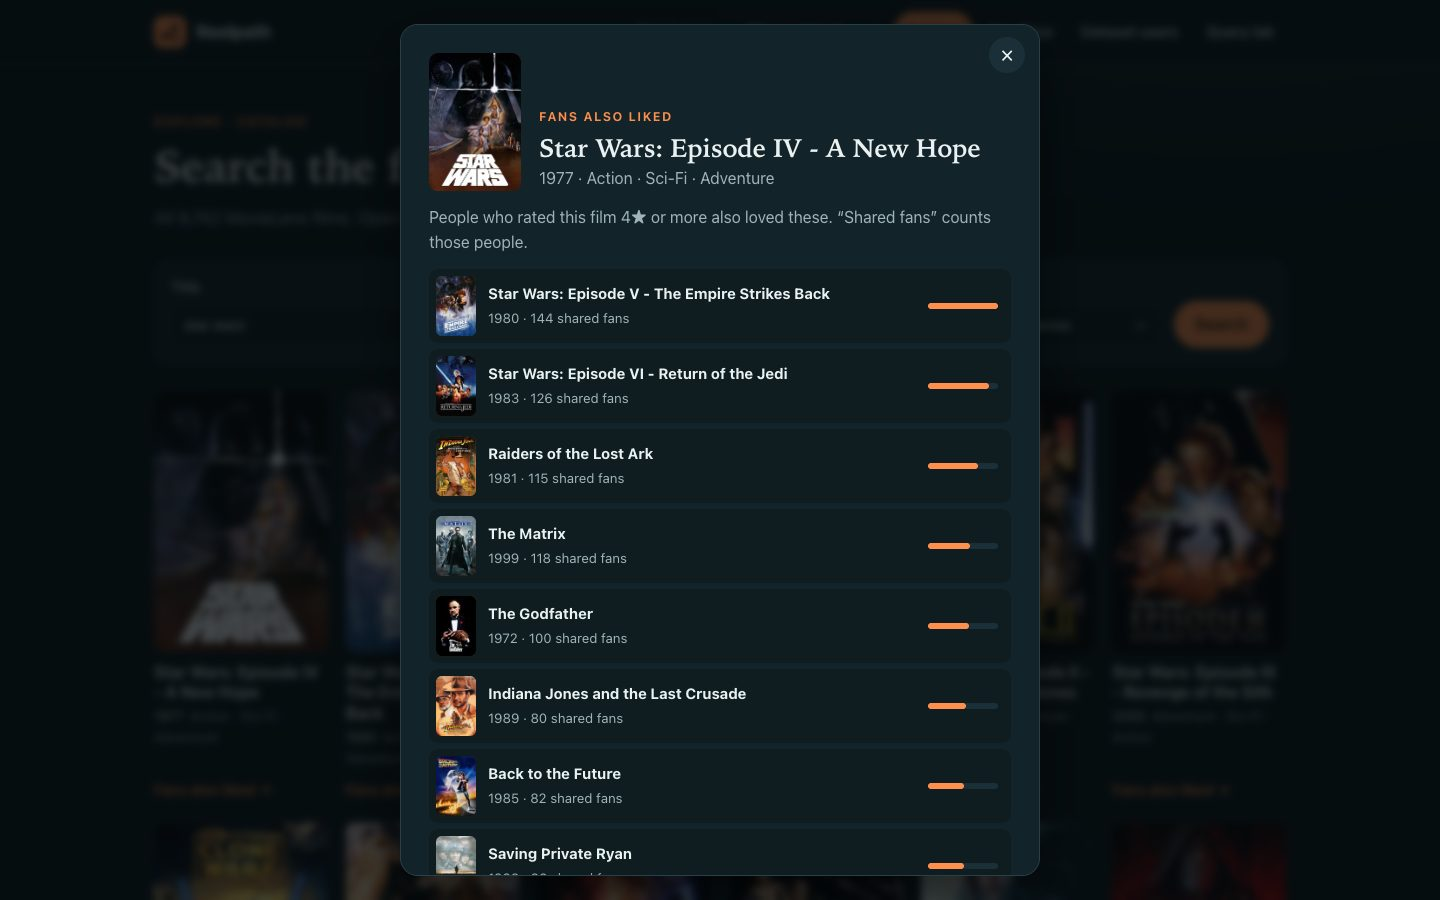
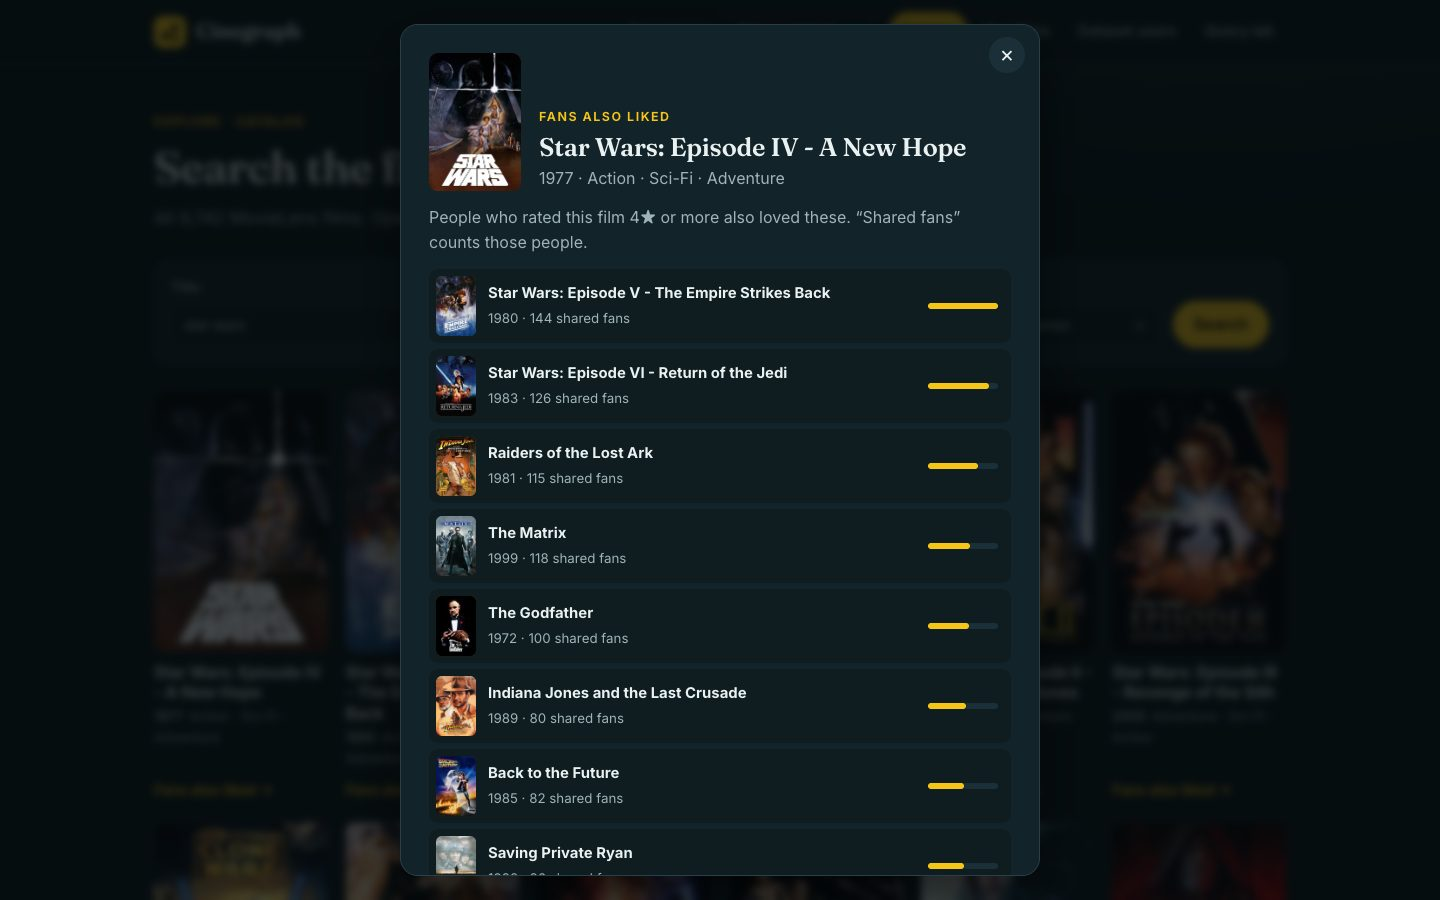
docs: explain the Cinegraph name, colours and typefaces; refresh screenshots

diff --git a/README.md b/README.md
@@ -1,6 +1,6 @@
 <div align="center">
 
-# 🎬 Reelpath
+# 🎬 Cinegraph
 
 ### Pick films you love. See what to watch next, and exactly why.
 
@@ -17,7 +17,7 @@ with **Graph Data Science** algorithms, a guarded **natural-language → Cypher*
 **Can Oktay** · Student no. B00818187 · AIDAMS 3A, Graph Databases
 Project 4 · *Movie Recommender in Production* (Level 2)
 
-<img src="docs/screenshots/ui-home.jpg" alt="Reelpath home page" width="900">
+<img src="docs/screenshots/ui-home.jpg" alt="Cinegraph home page" width="900">
 
 </div>
 
@@ -127,17 +127,19 @@ The deterministic controller runs the ten rounds itself; the local model is only
 
 ## Design choices
 
-**Name.** *Reelpath* joins a film reel and a path: every recommendation is literally a path through the graph, from a film you picked, through the people who loved it, to the next film. (The repository keeps its original name, `moviegraph`.)
+**Name.** *Cinegraph* joins *cinema* and *graph*: the films and the Neo4j graph that connects them. Every recommendation is a path through that graph, from a film you picked, through the people who loved it, to the next film. (The repository keeps its original name, `moviegraph`.)
 
-**Two colours, teal and orange.** The interface uses one hue for surfaces and its complement for actions, and lets the posters carry every other colour.
+**Two colours, teal and IMDb yellow.** The interface uses one dark hue for surfaces and one bright accent for actions, and lets the posters carry every other colour.
 
 | Role | Colour | Why |
 |---|---|---|
-| Surfaces | Teal-tinted near-black `#0b1619` to `#1a2f37` | Dark, low-saturation surfaces recede, so colourful posters stand out. A tinted dark grey instead of pure black reduces halation of light text, which mostly affects readers with astigmatism. |
-| Actions and highlights | Orange `#ff8f4d` | Orange is the complement of teal, the largest hue contrast for buttons and links. It is the same *orange and teal* pairing used in film colour grading, where warm skin tones are separated from cool backgrounds. |
+| Surfaces | Teal-tinted near-black `#0b1619` to `#1a2f37` | Dark, low-saturation surfaces recede, so colourful posters stand out. A tinted dark grey instead of pure black reduces halation of light text, which mostly affects readers with astigmatism. Cool teal backgrounds are also the backdrop of the *orange and teal* look in film colour grading. |
+| Actions and highlights | IMDb yellow `#f5c518` | The colour people already associate with film ratings, so buttons, ratings and links read as "film" at a glance. It is warm against the cool teal surfaces. |
 | Text | Off-white `#e9f1f1`, muted `#9fb4b7` | Softer than pure white on dark backgrounds. |
 
-Measured WCAG contrast on the page background: body text 16:1, muted text 8.5:1, orange 8.1:1, and dark text on orange buttons 8.4:1, all above the AA threshold of 4.5:1. Sources: [PetaPixel on the orange and teal look](https://petapixel.com/2017/02/23/orange-teal-look-popular-hollywood/), [Adobe on why orange and teal grading works](https://www.adobe.com/creativecloud/video/hub/features/why-use-orange-teal-grading), [overview of polarity and halation research](https://a11ywithdiana.substack.com/p/and).
+**Typefaces.** Headings use [Fraunces](https://fonts.google.com/specimen/Fraunces), a high-contrast optical-size serif with the feel of classic film titles; interface text uses [Inter](https://fonts.google.com/specimen/Inter), designed for screen legibility at small sizes. Both load from Google Fonts with system fallbacks, so the app still works offline.
+
+Measured WCAG contrast on the page background: body text 16:1, muted text 8.5:1, yellow 11.3:1, and black text on yellow buttons 12.9:1, all above the AA threshold of 4.5:1. Sources: [PetaPixel on the orange and teal look](https://petapixel.com/2017/02/23/orange-teal-look-popular-hollywood/), [Adobe on why orange and teal grading works](https://www.adobe.com/creativecloud/video/hub/features/why-use-orange-teal-grading), [overview of polarity and halation research](https://a11ywithdiana.substack.com/p/and).
 
 ---
 
@@ -158,7 +160,7 @@ make demo           # live HTTP smoke checks
 
 | Service | URL |
 |---|---|
-| **Reelpath** | http://localhost:18080 |
+| **Cinegraph** | http://localhost:18080 |
 | Swagger / OpenAPI | http://localhost:18080/docs |
 | Neo4j Browser | http://localhost:17474 (Bolt `17687`, credentials in your `.env`) |
 
